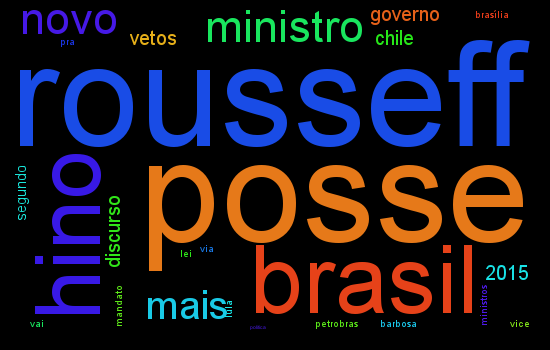
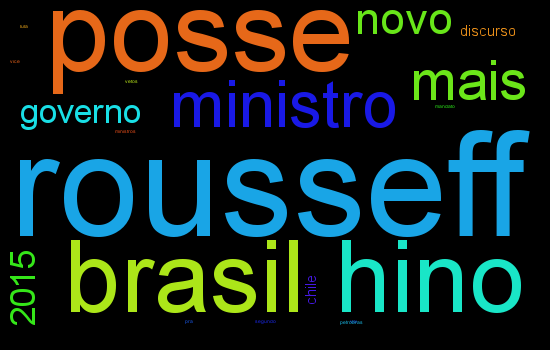
fixed wordcloud file regeneration process

diff --git a/twitter_analysis/core/gui/widget_analyse_tweets.py b/twitter_analysis/core/gui/widget_analyse_tweets.py
@@ -9,6 +9,7 @@ from PyQt4.QtGui import QApplication
 
 from core.gui.ui_widget_analyse_tweets import Ui_widget_analyse_tweets
 from core.gui.widget_wordcloud import WidgetWordcloud
+from core.gui.widget_wordcloud_per_cluster import WidgetWordcloudPerCluster
 from core.gui.dialog_generate_clusters import GenerateClustersDialog
 
 import os
@@ -39,11 +40,23 @@ class WidgetAnalyseTweets(QWidget, Ui_widget_analyse_tweets):
     file_name : string
         Dataset name that is being handle. This is the base name for the raw tweets,
         hashtags and wordcloud files.
+
+    regenerate_wordcloud : Boolean
+        If a dataset is selected again for clusterization, clusterize the dataset
+        and generate a new wordcloud, otherwize use the already existent wordcloud.
+
+    regenerate_wordcloud_per_cluster : dict
+        Maps the wordcloud file name of the cluster to if it needs to be regenerated. If a dataset is selected
+        again for clusterization, clusterize the dataset and generate a new wordcloud for each cluster, 
+        otherwize use the already existent wordclouds. If it is empty it means all wordclouds need to be regenerated.
     """
     def __init__(self):
 
         QWidget.__init__(self)
         
+        self.regenerate_wordcloud = False
+        self.regenerate_wordcloud_per_cluster = {}
+
         # set up User Interface (widgets, layout...)
         self.setupUi(self)
 
@@ -65,13 +78,16 @@ class WidgetAnalyseTweets(QWidget, Ui_widget_analyse_tweets):
         # custom event handling
         self.button_open_file.clicked.connect(self.open_tweets_file)
         self.button_wordcloud.clicked.connect(self.add_wordcloud_widget)
+        self.button_wordcloud_per_cluster.clicked.connect(self.add_wordcloud_per_cluster_widget)
         self.button_clusterize.clicked.connect(self.start_clustering)
 
  
     def start_clustering(self):
         """Invoke the modal dialog that perform the clustering procedure."""
 
+        # desired number of clusters
         k = int(self.line_edit_clusters.text())
+
         tweets = [tweet[2] for tweet in self.tweets]
         
         self.labels, self.top_words_per_cluster, ok = GenerateClustersDialog.generate_clusters(tweets, k)
@@ -87,7 +103,14 @@ class WidgetAnalyseTweets(QWidget, Ui_widget_analyse_tweets):
         self.button_wordcloud_per_cluster.setDisabled(False)
 
         self.line_edit_clusters.setText("")
-       
+        self.line_edit_clusters.setDisabled(True)
+        self.button_clusterize.setDisabled(True)
+
+        self.regenerate_wordcloud = True
+        self.regenerate_wordcloud_per_cluster = {}
+
+        self.clear_layout()
+
     def open_tweets_file(self):
         """Open a csv file containing Twitter text data that will be analysed in response of a click event.
         
@@ -115,13 +138,38 @@ class WidgetAnalyseTweets(QWidget, Ui_widget_analyse_tweets):
         print(file_name)
         self.file_name = file_name[:-4].split("/tweets/")[1]
 
+        self.line_edit_clusters.setDisabled(False)
+        self.button_clusterize.setDisabled(False)
+
     def add_wordcloud_widget(self):
         """Add the wordcloud widget to the main layout in response of a click event."""
         
         self.clear_layout()
         tweets = [t[2] for t in self.tweets]
-        widget_wordcloud = WidgetWordcloud(tweets, self.file_name)
+        widget_wordcloud = WidgetWordcloud(tweets, self.file_name, self.regenerate_wordcloud)
         self.vlayout_content.addWidget(widget_wordcloud)
+
+        self.regenerate_wordcloud = False
+
+
+    def add_wordcloud_per_cluster_widget(self):
+        """Add the wordcloud per cluster widget to the main layout in response of a click event."""
+        
+        self.clear_layout()
+        tweets = [t[2] for t in self.tweets]
+
+        # Calculate from wich cluster each tweet belongs to
+        tweets_per_cluster = {}
+        for tweet, label in zip(tweets, self.labels):
+            if label in tweets_per_cluster:
+                tweets_per_cluster[label].append(tweet)
+            else:
+                tweets_per_cluster[label] = [tweet]
+
+        widget_wordcloud_per_cluster = WidgetWordcloudPerCluster(tweets_per_cluster, self.file_name, 
+                                                                 self.regenerate_wordcloud_per_cluster)
+        self.vlayout_content.addWidget(widget_wordcloud_per_cluster)
+
 
     def clear_layout(self):
         """Remove all the widgets from the main layout."""

diff --git a/twitter_analysis/core/gui/ui_widget_wordcloud_per_cluster.py b/twitter_analysis/core/gui/ui_widget_wordcloud_per_cluster.py
@@ -2,7 +2,7 @@
 
 # Form implementation generated from reading ui file 'widget_wordcloud_per_cluster.ui'
 #
-# Created: Sun Dec 28 10:13:58 2014
+# Created: Wed Jan  7 10:14:40 2015
 #      by: PyQt4 UI code generator 4.11.2
 #
 # WARNING! All changes made in this file will be lost!
@@ -23,35 +23,35 @@ except AttributeError:
     def _translate(context, text, disambig):
         return QtGui.QApplication.translate(context, text, disambig)
 
-class Ui_widget_wordcloud(object):
-    def setupUi(self, widget_wordcloud):
-        widget_wordcloud.setObjectName(_fromUtf8("widget_wordcloud"))
-        widget_wordcloud.resize(549, 389)
-        self.label_wordcloud = QtGui.QLabel(widget_wordcloud)
+class Ui_widget_wordcloud_per_cluster(object):
+    def setupUi(self, widget_wordcloud_per_cluster):
+        widget_wordcloud_per_cluster.setObjectName(_fromUtf8("widget_wordcloud_per_cluster"))
+        widget_wordcloud_per_cluster.resize(549, 389)
+        self.label_wordcloud = QtGui.QLabel(widget_wordcloud_per_cluster)
         self.label_wordcloud.setGeometry(QtCore.QRect(0, 50, 551, 341))
         self.label_wordcloud.setStyleSheet(_fromUtf8(""))
         self.label_wordcloud.setText(_fromUtf8(""))
         self.label_wordcloud.setObjectName(_fromUtf8("label_wordcloud"))
-        self.widget = QtGui.QWidget(widget_wordcloud)
-        self.widget.setGeometry(QtCore.QRect(11, 11, 181, 24))
-        self.widget.setObjectName(_fromUtf8("widget"))
-        self.hlayout_clusters = QtGui.QHBoxLayout(self.widget)
+        self.layoutWidget = QtGui.QWidget(widget_wordcloud_per_cluster)
+        self.layoutWidget.setGeometry(QtCore.QRect(11, 11, 181, 24))
+        self.layoutWidget.setObjectName(_fromUtf8("layoutWidget"))
+        self.hlayout_clusters = QtGui.QHBoxLayout(self.layoutWidget)
         self.hlayout_clusters.setMargin(0)
         self.hlayout_clusters.setObjectName(_fromUtf8("hlayout_clusters"))
-        self.label = QtGui.QLabel(self.widget)
+        self.label = QtGui.QLabel(self.layoutWidget)
         font = QtGui.QFont()
         font.setPointSize(11)
         self.label.setFont(font)
         self.label.setObjectName(_fromUtf8("label"))
         self.hlayout_clusters.addWidget(self.label)
-        self.combobox_wordcloud = QtGui.QComboBox(self.widget)
-        self.combobox_wordcloud.setObjectName(_fromUtf8("combobox_wordcloud"))
-        self.hlayout_clusters.addWidget(self.combobox_wordcloud)
+        self.combobox_cluster = QtGui.QComboBox(self.layoutWidget)
+        self.combobox_cluster.setObjectName(_fromUtf8("combobox_cluster"))
+        self.hlayout_clusters.addWidget(self.combobox_cluster)
 
-        self.retranslateUi(widget_wordcloud)
-        QtCore.QMetaObject.connectSlotsByName(widget_wordcloud)
+        self.retranslateUi(widget_wordcloud_per_cluster)
+        QtCore.QMetaObject.connectSlotsByName(widget_wordcloud_per_cluster)
 
-    def retranslateUi(self, widget_wordcloud):
-        widget_wordcloud.setWindowTitle(_translate("widget_wordcloud", "Form", None))
-        self.label.setText(_translate("widget_wordcloud", "Clusters:", None))
+    def retranslateUi(self, widget_wordcloud_per_cluster):
+        widget_wordcloud_per_cluster.setWindowTitle(_translate("widget_wordcloud_per_cluster", "Form", None))
+        self.label.setText(_translate("widget_wordcloud_per_cluster", "Clusters:", None))
 

diff --git a/twitter_analysis/core/gui/widget_wordcloud_per_cluster.py b/twitter_analysis/core/gui/widget_wordcloud_per_cluster.py
@@ -1,0 +1,72 @@
+# Author: Allan Caminha Trevisan <allan.trvsn@gmail.com>
+# (c) 2014
+#
+# License: MIT
+
+from PyQt4.QtGui import QWidget
+from PyQt4 import QtGui, QtCore
+
+import os
+import os.path
+from time import time
+
+import PIL
+from PIL import Image
+
+from core.gui.ui_widget_wordcloud_per_cluster import Ui_widget_wordcloud_per_cluster
+from core.textutils.wordcloud import WordCloud
+
+class WidgetWordcloudPerCluster(QWidget, Ui_widget_wordcloud_per_cluster):
+    """This widget contains a label for displaying a wordcloud and a combobox for cluster choice.
+    
+    The wordcloud is generated based on a vectorizer that is used
+    to calculate the importance of each word in the dataset.
+
+    Parameters
+    ----------
+    tweets_per_cluster : dict of lists of strings
+        The list of words that will be used in the wordcloud is obtained
+        from this dataset. Mappings from cluster label to list of documents.
+
+    file_name : string
+        The file name for the wordcloud that is being generated.
+
+   regenerate_wordcloud_per_cluster : dict
+        Maps the wordcloud file name of the cluster to if it needs to be regenerated. If a dataset is selected
+        again for clusterization, clusterize the dataset and generate a new wordcloud for each cluster, 
+        otherwize use the already existent wordclouds. If it is empty it means all wordclouds need to be regenerated.
+    """
+    def __init__(self, tweets_per_cluster, file_name, regenerate_wordcloud_per_cluster):
+
+        QWidget.__init__(self)
+
+        self.tweets_per_cluster = tweets_per_cluster
+        self.file_name = file_name
+        self.regenerate_wordcloud_per_cluster = regenerate_wordcloud_per_cluster
+        
+        # set up User Interface (widgets, layout...)
+        self.setupUi(self)
+
+        self.combobox_cluster.addItems(["Cluster %d" % cluster_label for cluster_label in range(len(tweets_per_cluster))])
+        self.combobox_cluster.activated[int].connect(self.onActivated)   
+
+    def onActivated(self, cluster_label):
+
+        filename = os.getcwd() + "\\wordclouds\\" + self.file_name + "_cluster_" + str(cluster_label) + ".png"
+        
+        if filename in self.regenerate_wordcloud_per_cluster:
+
+            image = QtGui.QImage(filename)
+            pp = QtGui.QPixmap.fromImage(image)
+
+            self.label_wordcloud.setPixmap(pp)
+        else:
+
+            wordcloud = WordCloud(max_words=20, prefer_horizontal=0.80).generate(raw_documents=self.tweets_per_cluster[cluster_label])
+            wordcloud.to_file(filename)
+
+            image = QtGui.QImage(filename)
+            pp = QtGui.QPixmap.fromImage(image)
+
+            self.label_wordcloud.setPixmap(pp)
+            self.regenerate_wordcloud_per_cluster[filename] = False

diff --git a/twitter_analysis/core/gui/widget_wordcloud.py b/twitter_analysis/core/gui/widget_wordcloud.py
@@ -7,7 +7,6 @@ from PyQt4.QtGui import QWidget
 from PyQt4 import QtGui, QtCore
 
 import os
-import os.path
 from time import time
 
 import PIL
@@ -30,8 +29,12 @@ class WidgetWordcloud(QWidget, Ui_widget_wordcloud):
 
     file_name : string
         The file name for the wordcloud that is being generated.
+
+    regenerate_wordcloud : Boolean
+        If a dataset is selected again for clusterization, clusterize the dataset
+        and generate a new wordcloud, otherwize use the already existent wordcloud.
     """
-    def __init__(self, tweets, file_name):
+    def __init__(self, tweets, file_name, regenerate_wordcloud):
 
         QWidget.__init__(self)
         
@@ -40,9 +43,9 @@ class WidgetWordcloud(QWidget, Ui_widget_wordcloud):
 
         filename = os.getcwd() + "\\wordclouds\\" + file_name + ".png"
         
-        if not os.path.isfile(filename): 
+        if regenerate_wordcloud: 
         
-            wordcloud = WordCloud(max_words=30, prefer_horizontal=0.80).generate(raw_documents=tweets)
+            wordcloud = WordCloud(max_words=20, prefer_horizontal=0.80).generate(raw_documents=tweets)
             wordcloud.to_file(filename)
 
         image = QtGui.QImage(filename)

diff --git a/twitter_analysis/core/gui/dialog_generate_clusters.py b/twitter_analysis/core/gui/dialog_generate_clusters.py
@@ -66,7 +66,7 @@ class GenerateClustersDialog(QDialog):
 
         return (labels, top_words_per_cluster)
 
-    # static method to create the dialog and return (date, time, accepted)
+    # static method to create the dialog and return 
     @staticmethod
     def generate_clusters(tweets, k, parent = None):
         """Call procedure that perform clusterization on the tweets.
